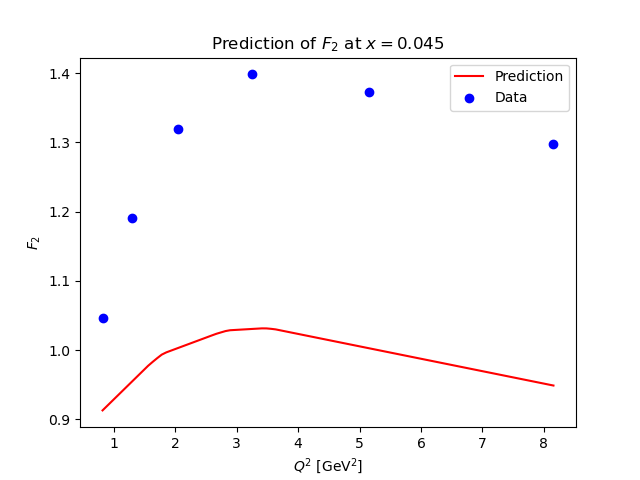
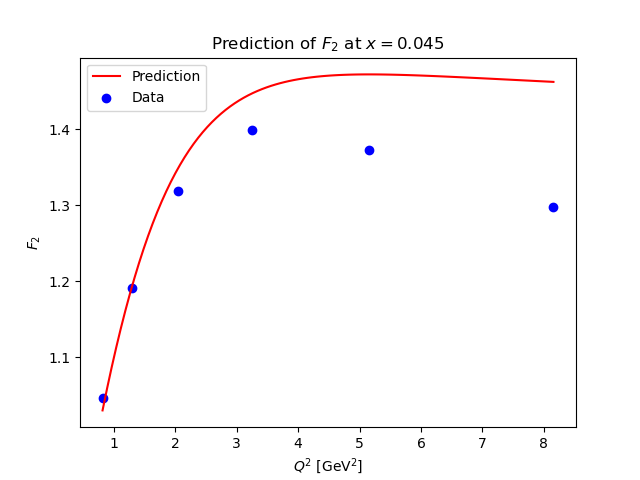
improved structure of code

diff --git a/NNstructurefunctions.py b/NNstructurefunctions.py
@@ -100,7 +100,7 @@ def load_data(
     }
 
 
-def model_trainer(**hyperparameters):
+def model_trainer(data_dict, **hyperparameters):
     # Collect the values for the hyperparameters
     nb_units_layer_1 = hyperparameters.get("units_1", 64)
     nb_units_layer_2 = hyperparameters.get("units_2", 32)
@@ -126,8 +126,6 @@ def model_trainer(**hyperparameters):
         restore_best_weights=True,
     )
 
-    data_dict = load_data()
-
     # Fit the Model as usual
     model.fit(
         data_dict["x_tr"],
@@ -148,9 +146,9 @@ def model_trainer(**hyperparameters):
 
 
 def define_hyperspace():
-    epochs_choices = [100, 1000, 2000]
-    activation_choices = ["relu", "sigmoid", "tanh"]
-    optimizer_choices = ["adam", "Adadelta", "RMSprop", "nadam"]
+    epochs_choices = [2000, 5000]
+    activation_choices = ["sigmoid", "tanh"]
+    optimizer_choices = ["adam", "RMSprop", "nadam"]
     initializer_choices = [
         "random_normal",
         "random_uniform",
@@ -158,8 +156,8 @@ def define_hyperspace():
         "glorot_uniform",
     ]
 
-    nb_units_layer_1 = hp.quniform("units_1", 5, 25, 4)
-    nb_units_layer_2 = hp.quniform("units_2", 5, 25, 4)
+    nb_units_layer_1 = hp.quniform("units_1", 10, 50, 4)
+    nb_units_layer_2 = hp.quniform("units_2", 10, 50, 4)
     activation = hp.choice("activation", activation_choices)
     optimizer = hp.choice("optimizer", optimizer_choices)
     epochs = hp.choice("epochs", epochs_choices)
@@ -177,14 +175,14 @@ def define_hyperspace():
     }
 
 
-# Define the hyperoptimization function
-def hyper_function(hyperspace_dict):
-    _, val_loss, _ = model_trainer(**hyperspace_dict)
-    return {"loss": val_loss, "status": "ok"}
-
-
-def perform_hyperopt(nb_trials=2):
+def perform_hyperopt(data_dict, nb_trials=2):
     hyperspace = define_hyperspace()
+
+    # Define the hyperoptimization function
+    def hyper_function(hyperspace_dict):
+        _, val_loss, _ = model_trainer(data_dict, **hyperspace_dict)
+        return {"loss": val_loss, "status": "ok"}
+
     trials = FileTrials(hyperopt_path, parameters=hyperspace)
     best = fmin(
         fn=hyper_function,
@@ -205,11 +203,15 @@ def perform_hyperopt(nb_trials=2):
     return best_setup
 
 
-def plot_constant_x():
+def create_replicas(y_data, y_err, n_rep=100):
+    y_dist = np.zeros((n_rep, y_data.shape[0]))
+    for i, mean in enumerate(y_data):
+        y_dist[:, i] = np.random.normal(loc=mean, scale=y_err[i], size=n_rep)
+    return y_dist
 
-    best_params = perform_hyperopt()
-    best_model, _, data_dict = model_trainer(**best_params)
 
+def plot_constant_x(best_model, data_dict):
+    # loop over x values
     for i, x in enumerate(data_dict["x_data"]):
         y = data_dict["y_data"][i]
         x_grid = np.linspace(x[0], x[-1], 100)
@@ -225,4 +227,7 @@ def plot_constant_x():
         plt.savefig(f"{fits_path}/FIT_{x[0,0]}.png")
 
 
-plot_constant_x()
+data_dict = load_data()
+best_params = perform_hyperopt(data_dict)
+best_model, _, data_dict = model_trainer(data_dict, **best_params)
+plot_constant_x(best_model, data_dict)
